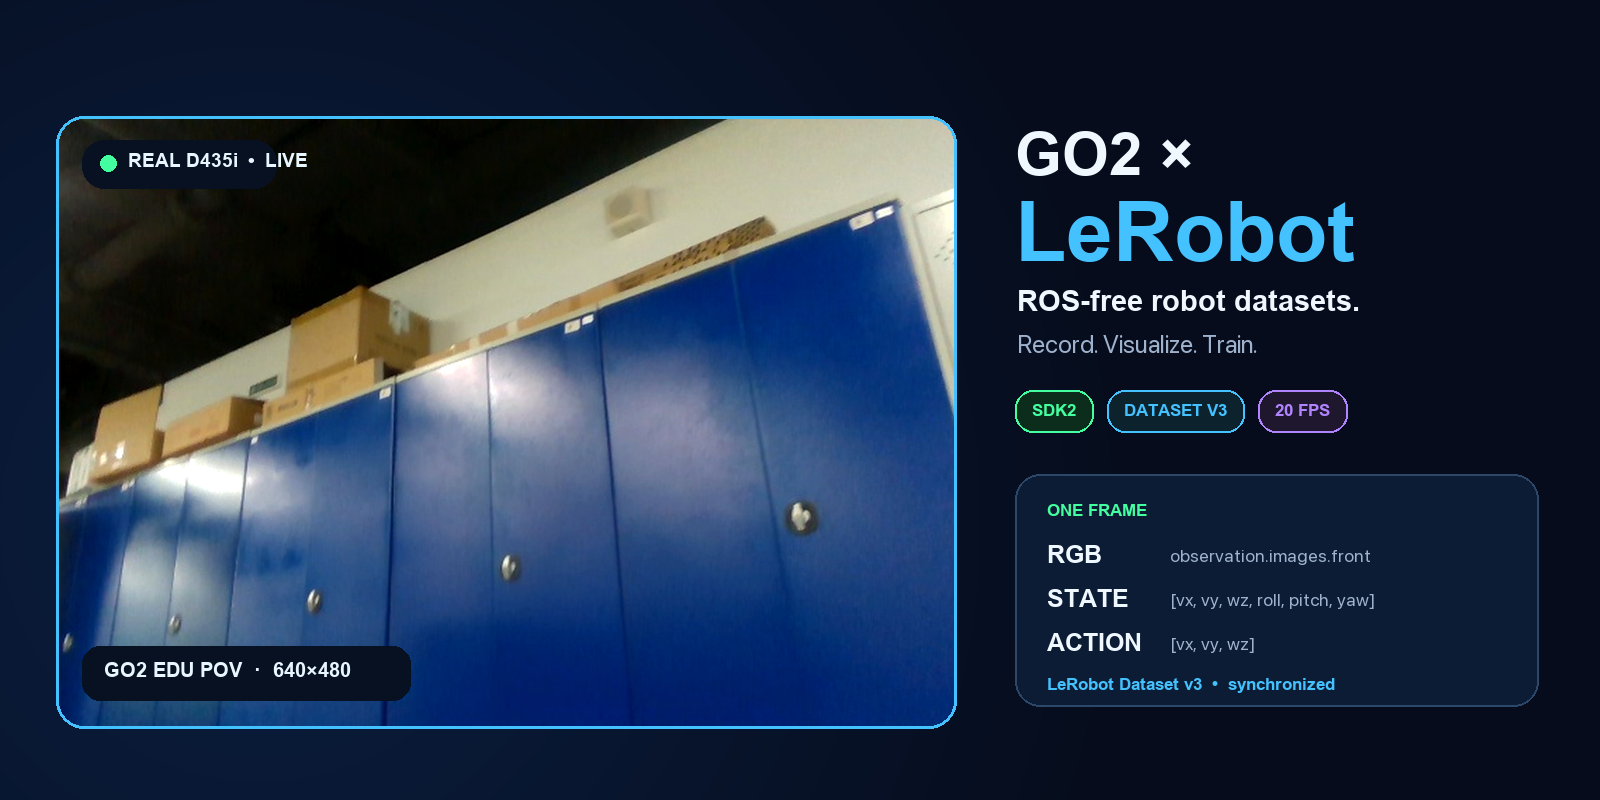
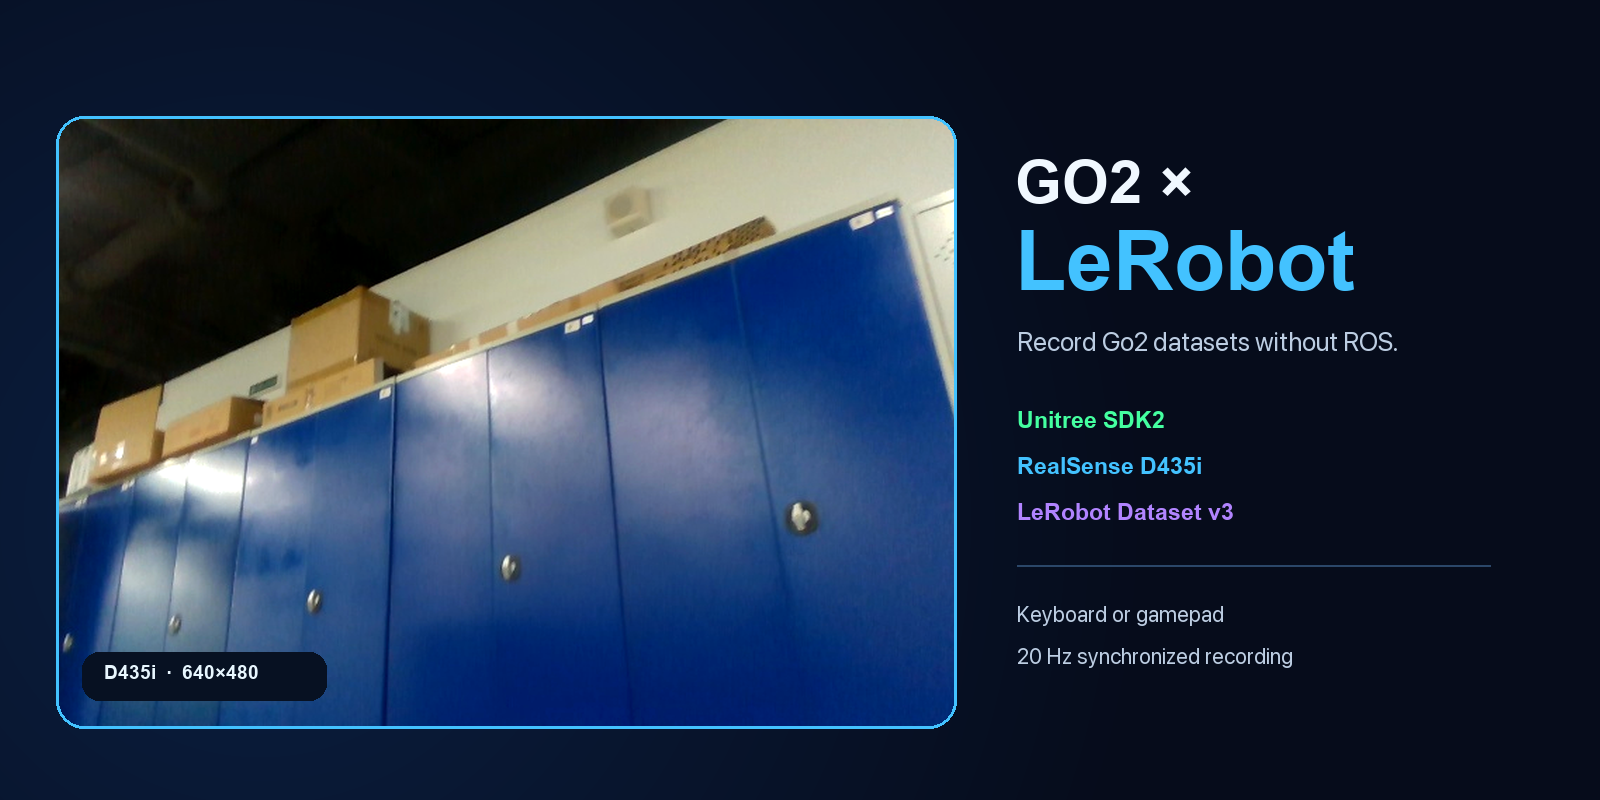
feat: add keyboard dataset recording command

diff --git a/src/lerobot_robot_unitree_go2/keyboard_record.py b/src/lerobot_robot_unitree_go2/keyboard_record.py
@@ -1,0 +1,81 @@
+"""Short command for recording a Go2 dataset with keyboard teleoperation."""
+
+from __future__ import annotations
+
+import argparse
+import json
+import sys
+from collections.abc import Sequence
+
+from .cli import record_main
+
+
+def build_parser() -> argparse.ArgumentParser:
+    parser = argparse.ArgumentParser(
+        description="Record a LeRobot Dataset v3 from Go2 using the keyboard."
+    )
+    parser.add_argument("--interface", default="eth0", help="DDS network interface")
+    parser.add_argument("--serial", required=True, help="RealSense camera serial number")
+    parser.add_argument("--repo-id", required=True, help="Dataset id, for example name/go2_walk")
+    parser.add_argument("--task", required=True, help="Task stored with every frame")
+    parser.add_argument("--episodes", type=int, default=10)
+    parser.add_argument("--episode-seconds", type=int, default=30)
+    parser.add_argument("--reset-seconds", type=int, default=10)
+    parser.add_argument("--fps", type=int, default=20)
+    parser.add_argument("--vx", type=float, default=0.3, help="Forward/back speed in m/s")
+    parser.add_argument("--vy", type=float, default=0.2, help="Lateral speed in m/s")
+    parser.add_argument("--wz", type=float, default=0.5, help="Yaw speed in rad/s")
+    parser.add_argument("--push-to-hub", action="store_true")
+    return parser
+
+
+def build_record_args(args: argparse.Namespace) -> list[str]:
+    if args.episodes <= 0 or args.episode_seconds <= 0 or args.reset_seconds < 0 or args.fps <= 0:
+        raise ValueError("episodes, episode-seconds, and fps must be positive")
+    if args.vx <= 0 or args.vy <= 0 or args.wz <= 0:
+        raise ValueError("vx, vy, and wz must be positive")
+
+    camera = (
+        "{front: {type: intelrealsense, "
+        f"serial_number_or_name: {json.dumps(args.serial)}, width: 640, height: 480, fps: 30}}"
+    )
+    return [
+        "--robot.type=unitree_go2",
+        f"--robot.network_interface={args.interface}",
+        f"--robot.control_frequency={args.fps}",
+        f"--robot.cameras={camera}",
+        "--teleop.type=unitree_go2_keyboard",
+        f"--teleop.vx={args.vx}",
+        f"--teleop.vy={args.vy}",
+        f"--teleop.wz={args.wz}",
+        # LeRobot reserves Q and R for recording controls.
+        "--teleop.yaw_left_key=j",
+        "--teleop.yaw_right_key=l",
+        "--teleop.reset_key=u",
+        f"--dataset.repo_id={args.repo_id}",
+        f"--dataset.single_task={args.task}",
+        f"--dataset.fps={args.fps}",
+        f"--dataset.num_episodes={args.episodes}",
+        f"--dataset.episode_time_s={args.episode_seconds}",
+        f"--dataset.reset_time_s={args.reset_seconds}",
+        "--dataset.no_stamp=true",
+        f"--dataset.push_to_hub={'true' if args.push_to_hub else 'false'}",
+    ]
+
+
+def main(argv: Sequence[str] | None = None) -> None:
+    args = build_parser().parse_args(argv)
+    record_args = build_record_args(args)
+    print("Keyboard: W/S forward, A/D lateral, J/L yaw, Space stop, X emergency stop, U reset")
+    print(f"Recording {args.episodes} episode(s) to {args.repo_id}")
+
+    original_argv = sys.argv
+    try:
+        sys.argv = ["lerobot-record", *record_args]
+        record_main()
+    finally:
+        sys.argv = original_argv
+
+
+if __name__ == "__main__":
+    main()

diff --git a/tests/test_keyboard_record.py b/tests/test_keyboard_record.py
@@ -1,0 +1,44 @@
+import pytest
+
+from lerobot_robot_unitree_go2.keyboard_record import build_parser, build_record_args
+
+
+def test_keyboard_record_builds_current_lerobot_arguments() -> None:
+    args = build_parser().parse_args(
+        [
+            "--interface",
+            "en7",
+            "--serial",
+            "123456",
+            "--repo-id",
+            "test/go2_walk",
+            "--task",
+            "Walk forward",
+            "--episodes",
+            "2",
+            "--push-to-hub",
+        ]
+    )
+    record_args = build_record_args(args)
+
+    assert "--robot.type=unitree_go2" in record_args
+    assert "--robot.network_interface=en7" in record_args
+    assert 'serial_number_or_name: "123456"' in next(
+        item for item in record_args if item.startswith("--robot.cameras=")
+    )
+    assert "--teleop.type=unitree_go2_keyboard" in record_args
+    assert "--teleop.vx=0.3" in record_args
+    assert "--teleop.yaw_left_key=j" in record_args
+    assert "--teleop.yaw_right_key=l" in record_args
+    assert "--teleop.reset_key=u" in record_args
+    assert "--dataset.single_task=Walk forward" in record_args
+    assert "--dataset.num_episodes=2" in record_args
+    assert "--dataset.push_to_hub=true" in record_args
+
+
+def test_keyboard_record_rejects_invalid_speed() -> None:
+    args = build_parser().parse_args(
+        ["--serial", "123", "--repo-id", "test/go2", "--task", "Walk", "--vx", "0"]
+    )
+    with pytest.raises(ValueError, match="vx, vy, and wz"):
+        build_record_args(args)

diff --git a/src/lerobot_robot_unitree_go2/teleoperators/keyboard.py b/src/lerobot_robot_unitree_go2/teleoperators/keyboard.py
@@ -64,9 +64,9 @@ class UnitreeGo2KeyboardTeleop(Teleoperator):
     def _on_press(self, key: object) -> None:
         normalised = self._normalise_key(key)
         self._pressed.add(normalised)
-        if normalised == "x":
+        if normalised == self.config.estop_key:
             self._estop_latched = True
-        elif normalised == "r":
+        elif normalised == self.config.reset_key:
             self._estop_latched = False
 
     def _on_release(self, key: object) -> None:
@@ -78,9 +78,15 @@ class UnitreeGo2KeyboardTeleop(Teleoperator):
         space = self._keyboard.Key.space if self._keyboard is not None else object()
         if self._estop_latched or space in keys:
             return {"base.vx": 0.0, "base.vy": 0.0, "base.wz": 0.0}
-        vx = self.config.vx * (float("w" in keys) - float("s" in keys))
-        vy = self.config.vy * (float("a" in keys) - float("d" in keys))
-        wz = self.config.wz * (float("q" in keys) - float("e" in keys))
+        vx = self.config.vx * (
+            float(self.config.forward_key in keys) - float(self.config.backward_key in keys)
+        )
+        vy = self.config.vy * (
+            float(self.config.left_key in keys) - float(self.config.right_key in keys)
+        )
+        wz = self.config.wz * (
+            float(self.config.yaw_left_key in keys) - float(self.config.yaw_right_key in keys)
+        )
         return {"base.vx": vx, "base.vy": vy, "base.wz": wz}
 
     def send_feedback(self, feedback: dict[str, Any]) -> None:

diff --git a/src/lerobot_robot_unitree_go2/teleoperators/configuration_keyboard.py b/src/lerobot_robot_unitree_go2/teleoperators/configuration_keyboard.py
@@ -11,7 +11,27 @@ class UnitreeGo2KeyboardTeleopConfig(TeleoperatorConfig):
     vx: float = 0.5
     vy: float = 0.3
     wz: float = 0.8
+    forward_key: str = "w"
+    backward_key: str = "s"
+    left_key: str = "a"
+    right_key: str = "d"
+    yaw_left_key: str = "j"
+    yaw_right_key: str = "l"
+    estop_key: str = "x"
+    reset_key: str = "u"
 
     def __post_init__(self) -> None:
         if self.vx <= 0 or self.vy <= 0 or self.wz <= 0:
             raise ValueError("Keyboard velocity gains must be positive")
+        keys = [
+            self.forward_key,
+            self.backward_key,
+            self.left_key,
+            self.right_key,
+            self.yaw_left_key,
+            self.yaw_right_key,
+            self.estop_key,
+            self.reset_key,
+        ]
+        if any(len(key) != 1 for key in keys) or len(set(keys)) != len(keys):
+            raise ValueError("Keyboard control keys must be unique single characters")

diff --git a/tests/test_config.py b/tests/test_config.py
@@ -32,3 +32,8 @@ def test_teleop_config_validation() -> None:
         UnitreeGo2KeyboardTeleopConfig(vx=0)
     with pytest.raises(ValueError):
         UnitreeGo2GamepadTeleopConfig(deadzone=1.0)
+
+
+def test_keyboard_keys_must_be_unique() -> None:
+    with pytest.raises(ValueError, match="unique single characters"):
+        UnitreeGo2KeyboardTeleopConfig(forward_key="w", backward_key="w")

diff --git a/examples/record_go2_keyboard.py b/examples/record_go2_keyboard.py
@@ -1,0 +1,7 @@
+#!/usr/bin/env python3
+"""Record Go2 + D435i with keyboard control."""
+
+from lerobot_robot_unitree_go2.keyboard_record import main
+
+if __name__ == "__main__":
+    main()

diff --git a/README.md b/README.md
@@ -1,83 +1,80 @@
 <div align="center">
 
-<img src="docs/assets/go2-lerobot-hero.png" alt="Unitree Go2 × LeRobot — real D435i capture" width="100%">
+<img src="docs/assets/go2-lerobot-hero.png" alt="Unitree Go2 with LeRobot" width="100%">
 
 # LeRobot × Unitree Go2
 
-**Turn a Go2 into a native Hugging Face LeRobot Dataset v3 recorder — without ROS.**
+Open-source adapter for recording Go2 trajectories with Hugging Face LeRobot. No ROS required.
 
 [![CI](https://github.com/dancher00/lerobot-unitree-go2/actions/workflows/ci.yml/badge.svg)](https://github.com/dancher00/lerobot-unitree-go2/actions/workflows/ci.yml)
 [![Apache-2.0](https://img.shields.io/badge/license-Apache--2.0-35baf6.svg)](LICENSE)
 [![Python 3.12](https://img.shields.io/badge/python-3.12-44ff9f.svg)](pyproject.toml)
 [![LeRobot Dataset v3](https://img.shields.io/badge/LeRobot-Dataset_v3-ffcc4d.svg)](https://huggingface.co/docs/lerobot)
-[![ROS-free](https://img.shields.io/badge/ROS-free-b084ff.svg)](#why)
 
-[Quick start](#quick-start) · [Record](#record) · [Full guide](docs/guide.md) · [Examples](examples)
+[Install](#install) · [Record a dataset](#record-a-dataset) · [Full guide](docs/guide.md)
 
 </div>
 
-## Why
+The adapter connects Unitree SDK2 to the current LeRobot robot API. Each sample contains a D435i
+frame, body state, the velocity command sent to the robot, and the usual LeRobot metadata.
 
-A small, production-minded bridge between **Unitree SDK2** and the standard
-`lerobot-record` workflow:
+- Go2 and Go2 EDU
+- Unitree SDK2 `SportClient`
+- Intel RealSense D435i
+- gamepad or keyboard control
+- command limits, watchdog, emergency stop, and zero velocity on exit
+- mock mode for tests and CI
 
-- 🐕 Go2 / Go2 EDU base control: `[vx, vy, wz]`
-- 📷 RealSense D435i RGB through LeRobot's native camera stack
-- 🎮 Gamepad + keyboard teleoperation
-- 🛑 clipping, watchdog, emergency stop, zero-on-exit
-- 🧪 mock robot + Dataset v3 round-trip tests in CI
-- 🚫 no ROS in the control or data path
-
-### Real hardware proof
+## Demo
 
 <div align="center">
-<img src="docs/assets/go2-walk-real.gif" alt="Real Go2 EDU walking while recording D435i and telemetry" width="720">
+<img src="docs/assets/go2-walk-real.gif" alt="Go2 EDU walking while recording D435i and telemetry" width="720">
 <br>
-<sub>Real Go2 EDU · D435i · SDK2 · 0.30 m/s command · synchronized at 20 Hz</sub>
+<sub>Go2 EDU walking at 0.30 m/s. D435i frames and commands are recorded at 20 Hz.</sub>
 </div>
 
-> Validated live: stand-up, DDS state, velocity control, safe stop, 640×480 RGB,
-> and a **190-frame LeRobot Dataset v3** that reopens with standard tooling.
+Tested on a Go2 EDU with a D435i: stand-up, DDS state, velocity control, safe stop, 640×480 RGB,
+and a 190-frame LeRobot Dataset v3 that loads with `LeRobotDataset`.
 
-## Quick start
+## Install
 
 ```bash
 git clone https://github.com/dancher00/lerobot-unitree-go2.git
 cd lerobot-unitree-go2
-python3.12 -m venv .venv && source .venv/bin/activate
+python3.12 -m venv .venv
+source .venv/bin/activate
 pip install -e '.[test,unitree,realsense,gamepad,keyboard]'
 pytest -q
 ```
 
-Find the camera and verify read-only Go2 state:
+Find the camera and check the robot state without moving it:
 
 ```bash
 lerobot-find-cameras realsense
 python examples/read_go2_state.py --interface eth0
 ```
 
-## Record
+See the [full guide](docs/guide.md) for CycloneDDS, networking, and RealSense setup.
+
+## Record a dataset
 
 ```bash
-lerobot-record \
-  --robot.type=unitree_go2 \
-  --robot.network_interface=eth0 \
-  --robot.cameras='{front: {type: intelrealsense, serial_number_or_name: 243722071463, width: 640, height: 480, fps: 30}}' \
-  --teleop.type=unitree_go2_gamepad \
-  --dataset.repo_id=YOUR_NAME/go2_walk \
-  --dataset.single_task='Walk to the red object' \
-  --dataset.fps=20 \
-  --dataset.num_episodes=10
+lerobot-go2-keyboard-record \
+  --interface eth0 \
+  --serial YOUR_CAMERA_SERIAL \
+  --repo-id YOUR_NAME/go2_walk \
+  --task 'Walk to the red object' \
+  --episodes 10
 ```
 
-Keyboard fallback:
+The same command is available as `python examples/record_go2_keyboard.py`. During recording:
 
-```bash
-python examples/teleop_go2.py --interface eth0 --serial 243722071463 --keyboard
-# W/S forward · A/D lateral · Q/E yaw · Space stop · X emergency stop
-```
+`W/S` forward · `A/D` lateral · `J/L` yaw · `Space` stop · `X` emergency stop · `U` reset
 
-Every frame is standard LeRobot data:
+The default forward speed is 0.3 m/s. Use `--vx`, `--vy`, and `--wz` to change it. Add
+`--push-to-hub` to upload the dataset after recording.
+
+## Dataset
 
 ```text
 observation.images.front   RGB, 640×480
@@ -86,22 +83,21 @@ action                     [vx, vy, wz]
 task · timestamp · episode_index · frame_index
 ```
 
-Visualize and share:
-
 ```bash
 lerobot-dataset-viz --repo-id YOUR_NAME/go2_walk --episode-index 0
-hf auth login  # then record with --dataset.push_to_hub=true
+hf auth login  # use --dataset.push_to_hub=true to upload while recording
 ```
 
-> [!CAUTION]
-> Clear the area, keep the Unitree remote stop available, and start with low limits.
-> This is research software, not a certified safety system.
+## Safety
+
+Clear the area and keep the Unitree remote stop within reach. Start with low velocity limits.
+This is research software and is not a certified safety system.
 
 <div align="center">
 
-[Full setup & troubleshooting →](docs/guide.md)
+[Setup and troubleshooting](docs/guide.md) · [Examples](examples) · [Contributing](CONTRIBUTING.md)
 
-If this saves you a weekend, **give it a ⭐** — it helps the project find the next robot builder.
+If the project is useful to you, a star helps others find it.
 
 Apache-2.0
 

diff --git a/docs/guide.md b/docs/guide.md
@@ -134,12 +134,27 @@ python examples/teleop_go2.py --interface eth0 --serial 123456789
 python examples/teleop_go2.py --interface eth0 --serial 123456789 --keyboard
 ```
 
-Keyboard controls: `W/S` forward/back, `A/D` lateral, `Q/E` yaw, Space stop, `X` latched emergency
-stop, `R` reset the latch. Gamepad: left stick forward/lateral, right-stick horizontal yaw, button 1
+Keyboard controls: `W/S` forward/back, `A/D` lateral, `J/L` yaw, Space stop, `X` latched emergency
+stop, `U` reset the latch. Gamepad: left stick forward/lateral, right-stick horizontal yaw, button 1
 (usually B/Circle) latches emergency stop, button 7 (usually Start) resets it. Axes and buttons are
 configurable.
 
 ## 10. Record the first LeRobot dataset
+
+For keyboard control, the short recording command is:
+
+```bash
+lerobot-go2-keyboard-record \
+  --interface eth0 \
+  --serial 123456789 \
+  --repo-id username/go2_dataset \
+  --task 'Approach the red cylinder' \
+  --episodes 5
+```
+
+Controls: `W/S` forward, `A/D` lateral, `J/L` yaw, Space stop, `X` emergency stop,
+and `U` reset after an emergency stop. The recording controls keep `Q` and `R` for LeRobot.
+The same entry point is available as `python examples/record_go2_keyboard.py`.
 
 Current LeRobot represents cameras as a native `cameras` mapping. This is the exact standard CLI:
 
